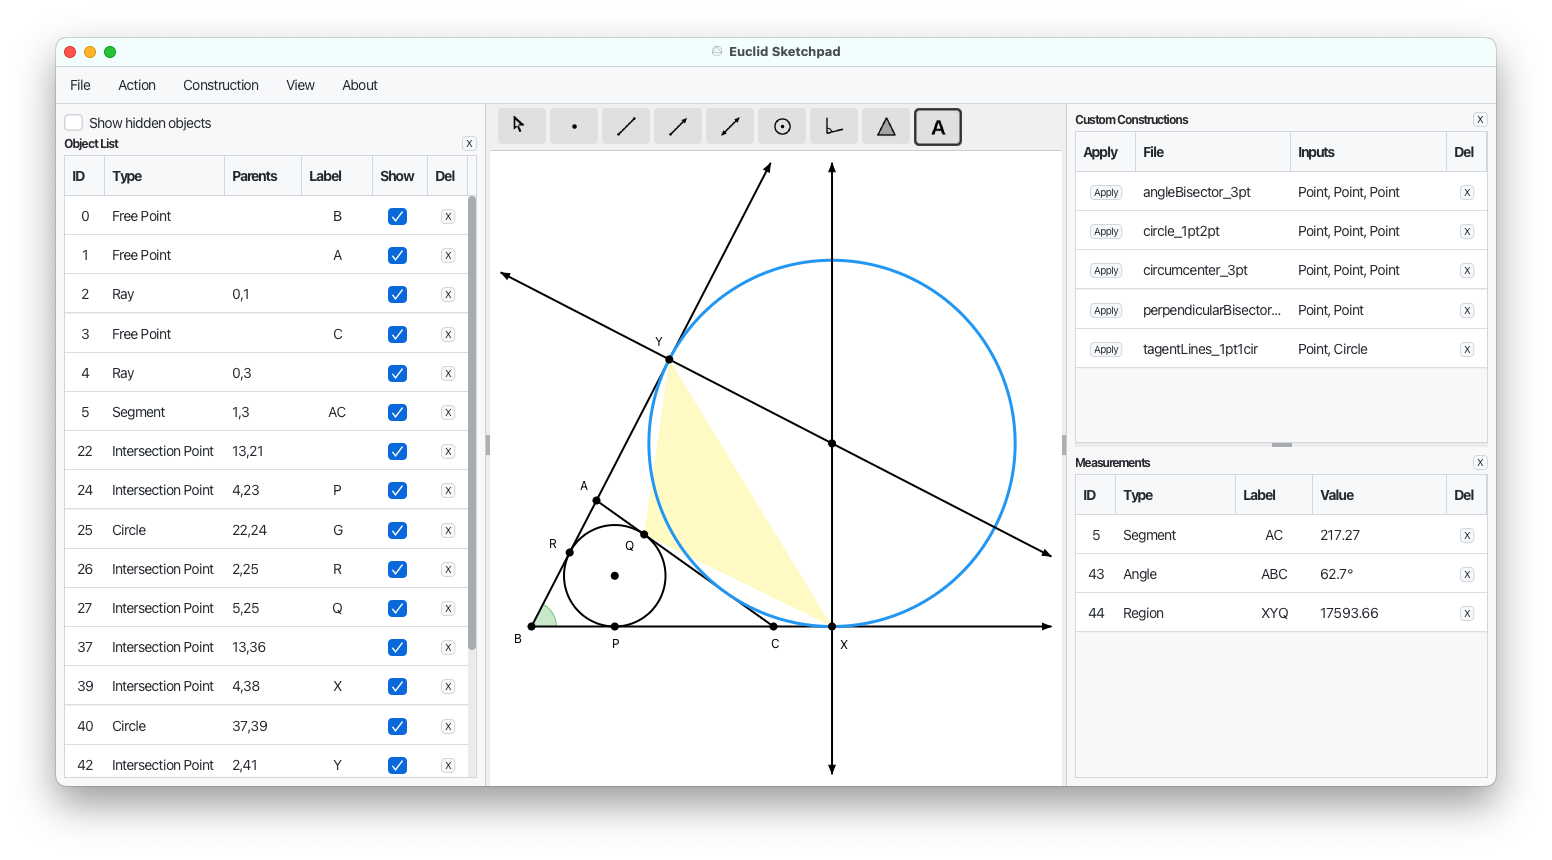
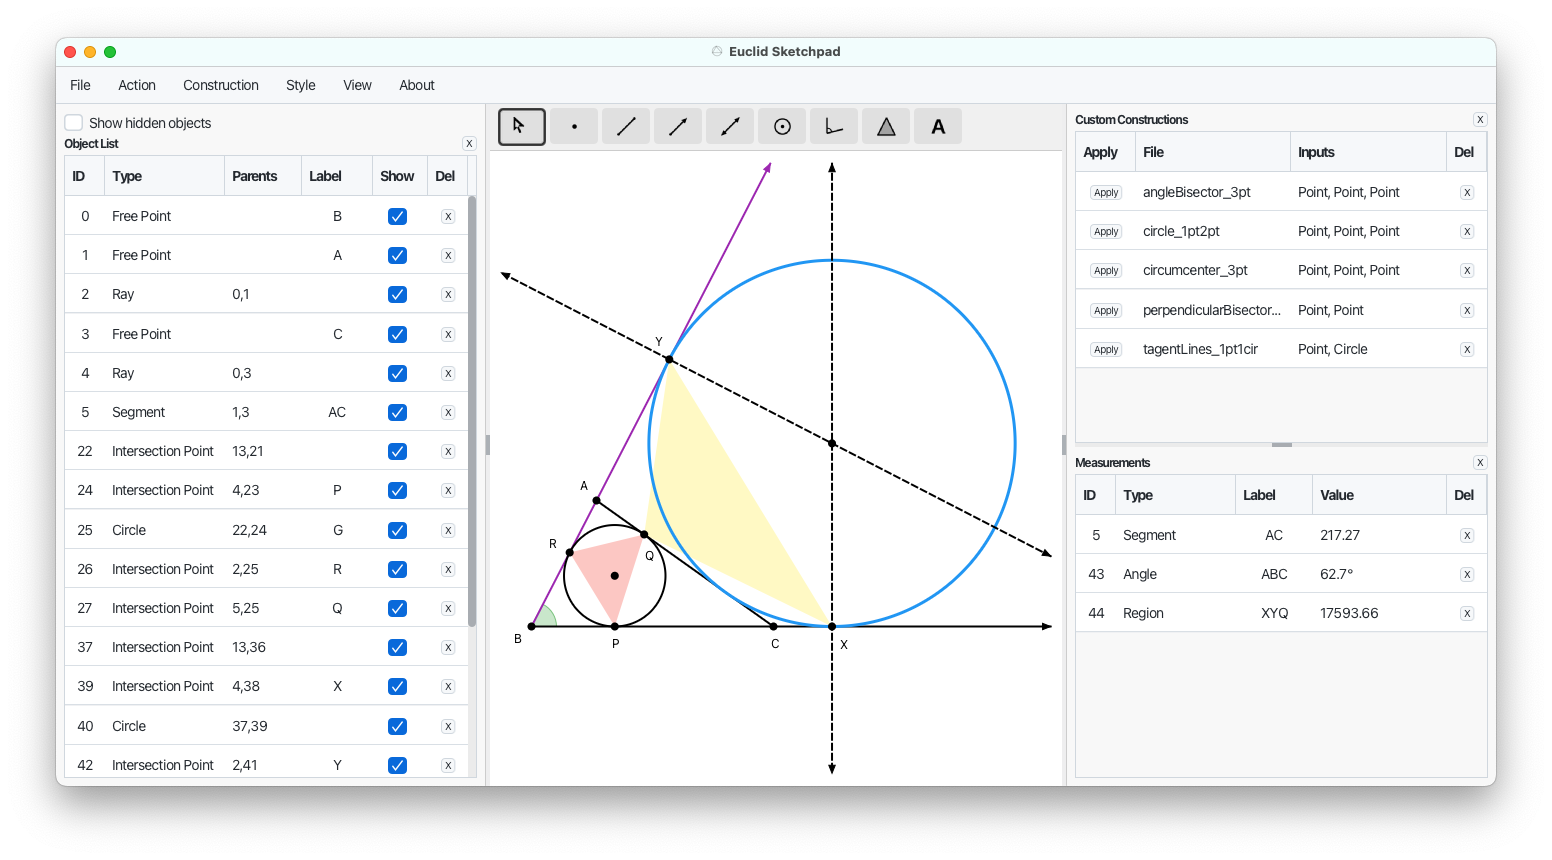
Add update-screenshot skill action and update application screenshot

diff --git a/.claude/skills/euclid-sketchpad/SKILL.md b/.claude/skills/euclid-sketchpad/SKILL.md
@@ -1,7 +1,7 @@
 ---
 name: euclid-sketchpad
-description: Project skills for Euclid Sketchpad. Supports 4 actions — "deploy app" (version release), "export diagram" (headless PNG/SVG), "merge pr" (merge release PR and push tag), "save changes" (update docs and commit). Use when user says "deploy", "release", "cut a release", "export diagram", "merge release", "merge release pr", "save changes", or invokes /euclid-sketchpad.
-allowed-tools: Bash(git tag *) Bash(git add *) Bash(git commit *) Bash(git push *) Bash(gh pr *) Bash(./gradlew *) Bash(ls *) Bash(git checkout *) Bash(git pull *) Bash(git branch *) Bash(git diff *) Bash(git log *) Bash(git status *)
+description: Project skills for Euclid Sketchpad. Supports 5 actions — "deploy app" (version release), "export diagram" (headless PNG/SVG), "merge pr" (merge release PR and push tag), "save changes" (update docs and commit), "update screenshot" (copy app screenshot to GitHub Pages). Use when user says "deploy", "release", "cut a release", "export diagram", "merge release", "merge release pr", "save changes", "update screenshot", or invokes /euclid-sketchpad.
+allowed-tools: Bash(git tag *) Bash(git add *) Bash(git commit *) Bash(git push *) Bash(gh pr *) Bash(./gradlew *) Bash(ls *) Bash(git checkout *) Bash(git pull *) Bash(git branch *) Bash(git diff *) Bash(git log *) Bash(git status *) Bash(cp *)
 ---
 
 # Euclid Sketchpad
@@ -16,6 +16,7 @@ Parse the user's input after the skill name to determine which action to run:
 | "export" | [Export Diagram](#export-diagram) |
 | "merge" | [Merge Release PR](#merge-release-pr) |
 | "save" | [Save Changes](#save-changes) |
+| "update screenshot", "screenshot" | [Update Screenshot](#update-screenshot) |
 
 If the action is ambiguous or not provided, ask the user which action they want.
 
@@ -73,16 +74,24 @@ Edit `src/main/kotlin/euclidsketchpad/Main.kt` — change the `APP_VERSION` cons
   - Outdated build state, test counts, or architecture notes.
 - If updates are needed, make them. If everything is current, skip.
 
-#### 4. Run tests
+#### 4. Update screenshot
+
+Copy the application screenshot to the GitHub Pages site:
+
+```
+cp assets/euclidSketchpad.png docs/images/screenshot.png
+```
+
+#### 5. Run tests
 
 Run `./gradlew clean test`. If any test fails, **stop the release** and report failures.
 
-#### 5. Git tag and commit
+#### 6. Git tag and commit
 
 - Stage all changed files by name.
 - Commit with message: `Release v<version>`
 
-#### 6. Push and release
+#### 7. Push and release
 
 Check which branch you are on (`git branch --show-current`).
 
@@ -234,3 +243,19 @@ Run `./gradlew clean test`. If any test fails, **stop** and report failures.
 
   Co-Authored-By: Claude Opus 4.6 <noreply@anthropic.com>
   ```
+
+---
+
+## Update Screenshot
+
+Copy the application screenshot from `assets/euclidSketchpad.png` to `docs/images/screenshot.png` for the GitHub Pages site.
+
+### Steps
+
+1. Verify `assets/euclidSketchpad.png` exists.
+2. Copy:
+   ```
+   cp assets/euclidSketchpad.png docs/images/screenshot.png
+   ```
+3. Confirm the copy succeeded with `ls -la docs/images/screenshot.png`.
+4. Tell the user the screenshot has been updated. Remind them to commit if they want to persist the change.
